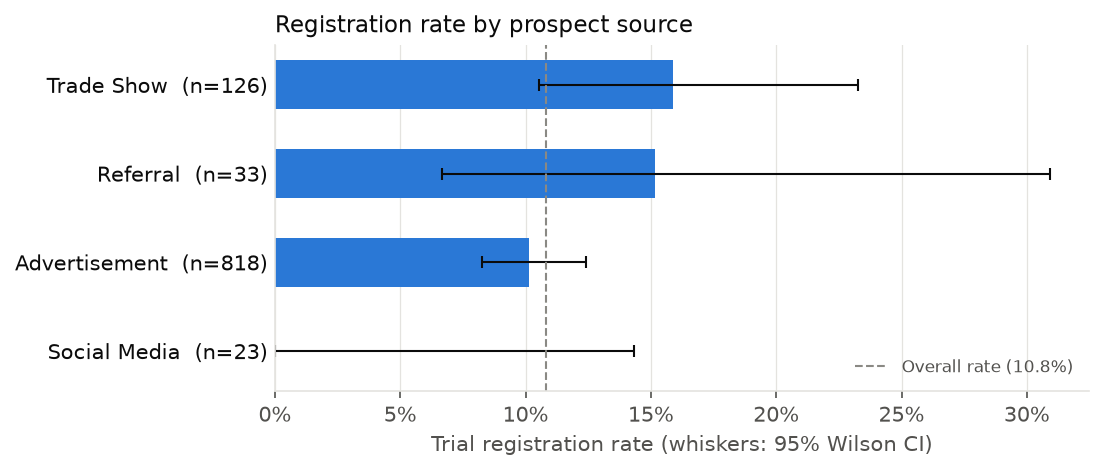
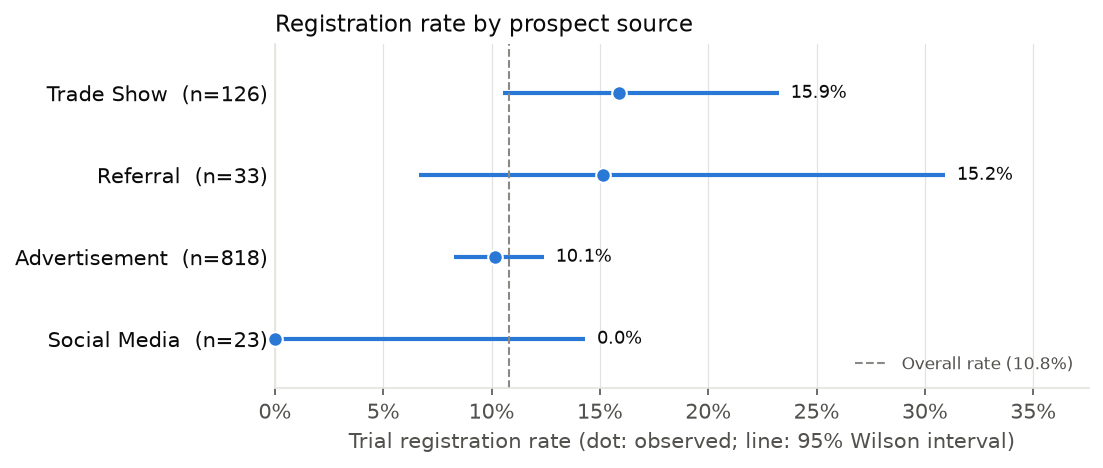
test(examples): pin the example report to the code and regenerate it
- The CLI honours SOURCE_DATE_EPOCH for the report timestamp, so the example can be
  regenerated byte for byte.
- tests/test_examples.py rebuilds the synthetic example and fails if the checked-in
  Markdown differs, so the example (and the README numbers taken from it) cannot
  drift from the code again.
- Regenerated examples/synthetic with the fixes and report changes above.

diff --git a/src/marketing_report/cli.py b/src/marketing_report/cli.py
@@ -7,6 +7,7 @@ import logging
 import os
 import sys
 from collections.abc import Sequence
+from datetime import UTC, datetime
 from pathlib import Path
 
 from marketing_report import __version__, synthetic
@@ -19,6 +20,18 @@ logger = logging.getLogger("marketing_report")
 
 def _env(name: str, default: str | None = None) -> str | None:
     return os.environ.get(f"MARKETING_REPORT_{name}", default)
+
+
+def _generated_at() -> datetime | None:
+    """Honour SOURCE_DATE_EPOCH (reproducible-builds convention) for the report timestamp."""
+    epoch = os.environ.get("SOURCE_DATE_EPOCH")
+    if not epoch:
+        return None
+    try:
+        return datetime.fromtimestamp(int(epoch), tz=UTC)
+    except ValueError:
+        logger.warning("Ignoring invalid SOURCE_DATE_EPOCH=%r", epoch)
+        return None
 
 
 def build_parser() -> argparse.ArgumentParser:
@@ -97,6 +110,7 @@ def main(argv: Sequence[str] | None = None) -> int:
         pdf=args.pdf,
         alpha=args.alpha,
         export_clean=args.export_clean,
+        generated_at=_generated_at(),
     )
     try:
         result = run(config)

diff --git a/tests/test_examples.py b/tests/test_examples.py
@@ -1,0 +1,24 @@
+"""The checked-in example report must match what the code produces now."""
+
+import re
+from datetime import datetime
+from pathlib import Path
+
+from marketing_report.pipeline import PipelineConfig, run
+
+EXAMPLE = Path(__file__).resolve().parents[1] / "examples" / "synthetic"
+
+
+def test_synthetic_example_is_up_to_date(tmp_path):
+    checked_in = (EXAMPLE / "example-co-marketing-report.md").read_text(encoding="utf-8")
+    stamp = re.search(r"\*\*Generated:\*\* (.+)", checked_in)
+    assert stamp, "example report has no Generated line"
+    generated_at = datetime.strptime(stamp.group(1).strip(), "%Y-%m-%d %H:%M")
+
+    result = run(PipelineConfig(output_dir=tmp_path, generated_at=generated_at, export_clean=False))
+    regenerated = result.report.markdown.read_text(encoding="utf-8")
+    assert regenerated == checked_in, (
+        "examples/synthetic is stale. Regenerate it with:\n"
+        "SOURCE_DATE_EPOCH=$(date +%s) uv run marketing-report run "
+        "--output-dir examples/synthetic --no-clean-export"
+    )

diff --git a/tests/test_end_to_end.py b/tests/test_end_to_end.py
@@ -58,3 +58,10 @@ def test_cli_reports_missing_columns(tmp_path):
     bad = tmp_path / "bad.csv"
     pd.DataFrame({"foo": [1]}).to_csv(bad, index=False)
     assert main(["run", "--input", str(bad), "--output-dir", str(tmp_path / "o")]) == 1
+
+
+def test_cli_honours_source_date_epoch(tmp_path, monkeypatch):
+    monkeypatch.setenv("SOURCE_DATE_EPOCH", "1767225600")  # 2026-01-01 00:00 UTC
+    assert main(["run", "--output-dir", str(tmp_path), "--no-clean-export"]) == 0
+    report = (tmp_path / "example-co-marketing-report.md").read_text(encoding="utf-8")
+    assert "- **Generated:** 2026-01-01 00:00" in report

diff --git a/examples/synthetic/example-co-marketing-report.md b/examples/synthetic/example-co-marketing-report.md
@@ -3,16 +3,16 @@
 - **Objective:** Maximise free-trial registrations
 - **Data source:** `synthetic (rows=1000, seed=42)`
 - **Opt-in period covered:** 2023-01-15 to 2023-11-30
-- **Generated:** 2026-10-19 12:21
+- **Generated:** 2026-11-03 12:00
 - **Significance level:** α = 0.05
 
 ## Executive summary
 
 - 108 of 1,000 prospects registered for a trial (10.8%).
 - Weakest funnel step: Demo attendance (attended / demo outcome known) at 26.2% (234 of 894).
-- Conversion rates by channel do not differ significantly (chi-square = 7.16, df = 3, p = 0.067, Cramér's V = 0.08) (some expected counts < 5; interpret with care).
-- Conversion rates by job category do not differ significantly (chi-square = 4.14, df = 3, p = 0.246, Cramér's V = 0.06).
-- Conversion rates by region do not differ significantly (chi-square = 1.86, df = 3, p = 0.601, Cramér's V = 0.04).
+- Conversion rates by channel do not differ significantly (Monte Carlo chi-square p = 0.066; expected counts too small for the asymptotic test, Holm-adjusted p = 0.132, Cramér's V = 0.08).
+- Conversion rates by job category differ significantly (chi-square = 11.61, df = 3, p = 0.009, Holm-adjusted p = 0.027, Cramér's V = 0.11).
+- Conversion rates by region do not differ significantly (chi-square = 1.86, df = 3, p = 0.601, Holm-adjusted p = 0.601, Cramér's V = 0.04).
 
 ## 1. Funnel
 
@@ -50,7 +50,19 @@ excluded from the attendance-rate base.
 
 ![Channel conversion](charts/channel_rates.png)
 
-*Chi-square test of independence: χ² = 7.16, df = 3, p = 0.067, Cramér's V = 0.08. Caution: smallest expected count is 2.5 and 25% of cells are below 5, so the chi-square approximation is unreliable; rely on the exact per-segment tests.*
+*Chi-square test of independence: χ² = 7.16, df = 3, p = 0.067, Cramér's V = 0.08. Caution: smallest expected count is 2.5 and 25% of cells are below 5, so the chi-square approximation is unreliable. Monte Carlo test with fixed margins (9,999 simulated tables): p = 0.066. Holm-adjusted across the channel, job category and region tests: p = 0.132.*
+
+**Where each channel loses prospects.** A channel's overall rate is the product of three
+shares: prospects with a demo outcome recorded, demo attendance, and trial registration after
+attending. The table splits out the last two, so prospects still at *Responded* do not dilute
+either step.
+
+| Prospect Source | Prospects | Pending | Demo attendance | 95% CI | Trial registration | 95% CI |
+|---|---:|---:|---:|---:|---:|---:|
+| Advertisement | 818 | 86 | 25.0% (183/732) | 22.0% to 28.3% | 45.4% (83/183) | 38.3% to 52.6% |
+| Trade Show | 126 | 15 | 31.5% (35/111) | 23.6% to 40.7% | 57.1% (20/35) | 40.9% to 72.0% |
+| Referral | 33 | 3 | 33.3% (10/30) | 19.2% to 51.2% | 50.0% (5/10) | 23.7% to 76.3% |
+| Social Media | 23 | 2 | 28.6% (6/21) | 13.8% to 50.0% | 0.0% (0/6) | 0.0% to 39.0% |
 
 ## 3. Audience and geography
 
@@ -58,14 +70,14 @@ excluded from the attendance-rate base.
 
 | Job Category | Prospects | Registered | Rate | 95% CI | Volume share | Adj. p vs rest |
 |---|---:|---:|---:|---:|---:|---:|
-| Other | 62 | 11 | 17.7% | 10.2% to 29.0% | 6.2% | 0.350 |
-| Decision Maker | 228 | 26 | 11.4% | 7.9% to 16.2% | 22.8% | 1.000 |
-| Practitioner | 610 | 63 | 10.3% | 8.2% to 13.0% | 61.0% | 1.000 |
-| Executive | 100 | 8 | 8.0% | 4.1% to 15.0% | 10.0% | 1.000 |
+| Other | 48 | 11 | 22.9% | 13.3% to 36.5% | 4.8% | 0.054 |
+| Decision Maker | 138 | 20 | 14.5% | 9.6% to 21.3% | 13.8% | 0.419 |
+| Practitioner | 700 | 69 | 9.9% | 7.9% to 12.3% | 70.0% | 0.419 |
+| Executive | 114 | 8 | 7.0% | 3.6% to 13.2% | 11.4% | 0.419 |
 
 ![Job category conversion](charts/job_category_rates.png)
 
-*Chi-square test of independence: χ² = 4.14, df = 3, p = 0.246, Cramér's V = 0.06.*
+*Chi-square test of independence: χ² = 11.61, df = 3, p = 0.009, Cramér's V = 0.11. Holm-adjusted across the channel, job category and region tests: p = 0.027.*
 
 ### Region
 
@@ -76,7 +88,7 @@ excluded from the attendance-rate base.
 | Europe | 319 | 33 | 10.3% | 7.5% to 14.2% | 31.9% | 1.000 |
 | Latin America | 108 | 8 | 7.4% | 3.8% to 13.9% | 10.8% | 1.000 |
 
-*Chi-square test of independence: χ² = 1.86, df = 3, p = 0.601, Cramér's V = 0.04.*
+*Chi-square test of independence: χ² = 1.86, df = 3, p = 0.601, Cramér's V = 0.04. Holm-adjusted across the channel, job category and region tests: p = 0.601.*
 
 ### Country
 
@@ -96,7 +108,7 @@ excluded from the attendance-rate base.
 | BRA | 84 | 4 | 4.8% | 1.9% to 11.6% | 8.4% | 0.859 |
 | ITA | 7 | 0 | 0.0% | 0.0% to 35.4% | 0.7% | 1.000 |
 
-*Chi-square test of independence: χ² = 8.45, df = 12, p = 0.749, Cramér's V = 0.09. Caution: smallest expected count is 0.8 and 19% of cells are below 5, so the chi-square approximation is unreliable; rely on the exact per-segment tests.*
+*Chi-square test of independence: χ² = 8.45, df = 12, p = 0.749, Cramér's V = 0.09. Caution: smallest expected count is 0.8 and 19% of cells are below 5, so the chi-square approximation is unreliable. Monte Carlo test with fixed margins (9,999 simulated tables): p = 0.758.*
 
 ## 4. Multivariable logistic regression
 
@@ -107,17 +119,17 @@ holding the other variables fixed.
 
 | Term | Odds ratio | 95% CI | p-value |
 |---|---:|---:|---:|
-| Prospect Source: Referral | 1.62 | 0.60 to 4.32 | 0.339 |
-| Prospect Source: Trade Show | 1.70 | 1.00 to 2.90 | 0.052 |
-| Geographic Region: Asia Pacific | 1.10 | 0.63 to 1.91 | 0.735 |
-| Geographic Region: Europe | 0.92 | 0.57 to 1.48 | 0.718 |
-| Geographic Region: Latin America | 0.59 | 0.27 to 1.30 | 0.190 |
-| Job Category: Decision Maker | 1.09 | 0.67 to 1.78 | 0.716 |
-| Job Category: Executive | 0.78 | 0.36 to 1.69 | 0.528 |
-| Job Category: Other | 2.06 | 1.01 to 4.20 | 0.047 |
+| Prospect Source: Referral | 1.73 | 0.65 to 4.63 | 0.277 |
+| Prospect Source: Trade Show | 1.69 | 0.99 to 2.88 | 0.056 |
+| Geographic Region: Asia Pacific | 1.10 | 0.63 to 1.90 | 0.743 |
+| Geographic Region: Europe | 0.91 | 0.56 to 1.47 | 0.703 |
+| Geographic Region: Latin America | 0.57 | 0.26 to 1.27 | 0.170 |
+| Job Category: Decision Maker | 1.54 | 0.90 to 2.63 | 0.118 |
+| Job Category: Executive | 0.72 | 0.34 to 1.55 | 0.401 |
+| Job Category: Other | 3.02 | 1.45 to 6.27 | 0.003 |
 
-McFadden pseudo-R² = 0.015; likelihood-ratio test against the
-intercept-only model: p = 0.262.
+McFadden pseudo-R² = 0.024; likelihood-ratio test against the
+intercept-only model: p = 0.036.
 
 Excluded from the model because they are too small or have no variation in the outcome
 (maximum likelihood cannot estimate them): Prospect Source: Social Media.
@@ -132,12 +144,17 @@ The scenario multiplies each channel's share of prospect volume by
 The dataset contains **no spend or cost data**, so these are shares of prospect volume, not of
 budget, and no ROI or CAC figures are implied.
 
-| Channel | Action | Current volume share | Scenario share | Rationale |
-|---|---|---:|---:|---|
-| Trade Show | Hold | 12.6% | 12.6% | No significant difference vs. other channels (adj. p = 0.256) |
-| Referral | Hold | 3.3% | 3.3% | No significant difference vs. other channels (adj. p = 0.487) |
-| Advertisement | Hold | 81.8% | 81.8% | No significant difference vs. other channels (adj. p = 0.487) |
-| Social Media | Hold | 2.3% | 2.3% | No significant difference vs. other channels (adj. p = 0.487) |
+*Detectable if true rate is* shows how far a channel's true registration rate would have to be
+from the other channels' rate for this test to flag it with 80% power at the current volume
+(normal approximation with Cohen's h at α / number of channels, Holm's strictest step).
+A *Hold* inside that range means "not enough data to tell", not "no difference".
+
+| Channel | Action | Current volume share | Scenario share | Detectable if true rate is | Rationale |
+|---|---|---:|---:|---|---|
+| Trade Show | Hold | 12.6% | 12.6% | below 2.7% or above 21.5% | No significant difference vs. other channels (adj. p = 0.256) |
+| Referral | Hold | 3.3% | 3.3% | below 0.1% or above 34.5% | No significant difference vs. other channels (adj. p = 0.487) |
+| Advertisement | Hold | 81.8% | 81.8% | below 5.8% or above 24.4% | No significant difference vs. other channels (adj. p = 0.487) |
+| Social Media | Hold | 2.3% | 2.3% | above 40.6% | No significant difference vs. other channels (adj. p = 0.487) |
 
 ## 6. Data quality
 
@@ -157,8 +174,10 @@ Cleaning steps:
 
 - Rates use 95% Wilson score intervals, which remain valid for small segments and rates near 0%.
 - Segment differences are tested with a chi-square test of independence on the
-  segment × registered table, with Cramér's V as effect size. Results are flagged when expected
-  counts are too small for the chi-square approximation.
+  segment × registered table, with Cramér's V as effect size. When expected counts are too small
+  for the chi-square approximation, the verdict uses Fisher's exact test (two levels) or a Monte
+  Carlo test with fixed margins (more levels). The channel, job category and region tests in the
+  executive summary are Holm-corrected as one family.
 - Per-segment comparisons use Fisher's exact test (segment vs. all others) with Holm correction
   for multiple comparisons.
 - The logistic regression uses one-hot (treatment) coding; odds ratios are associations, not
